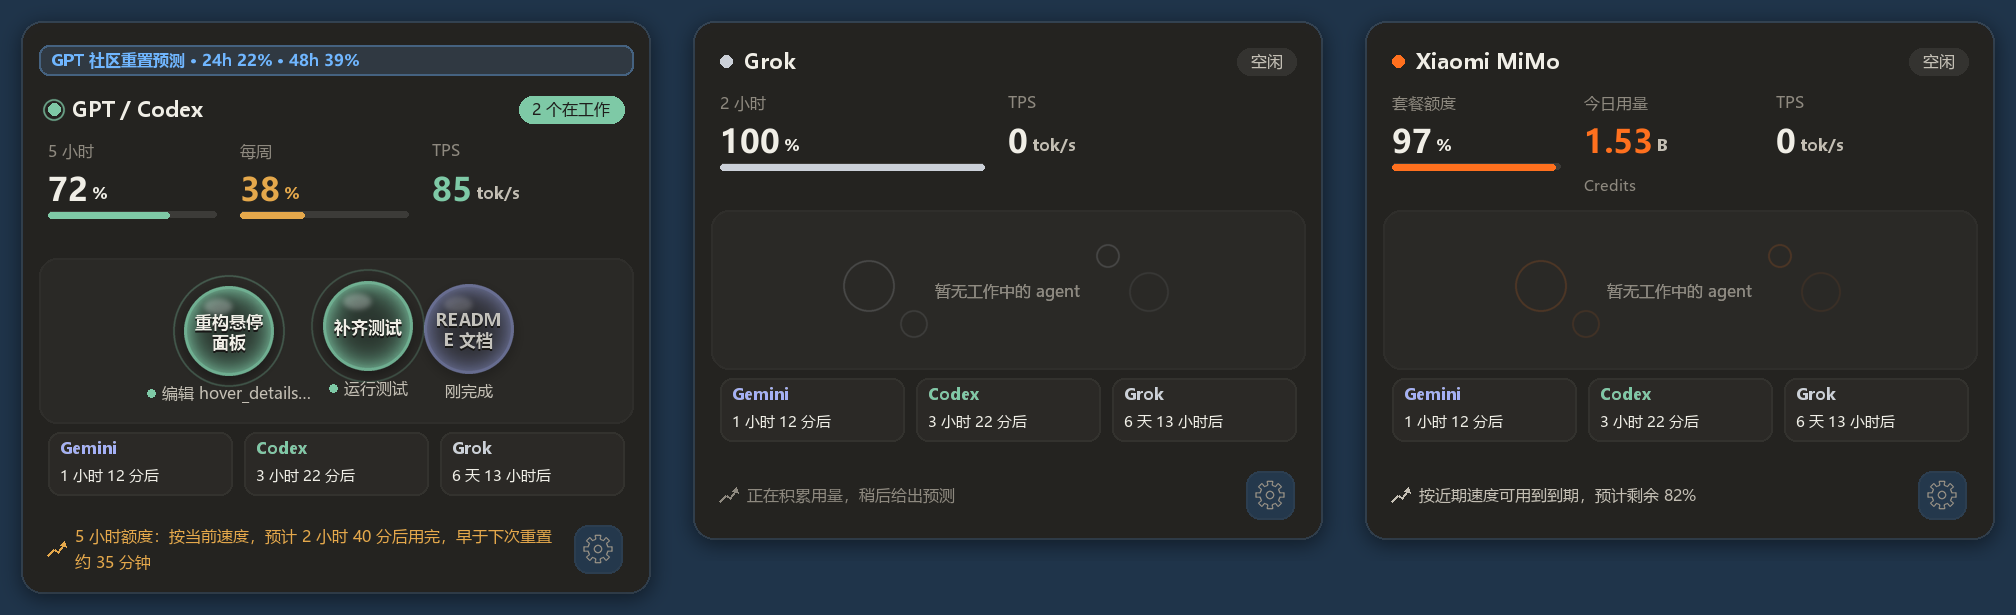
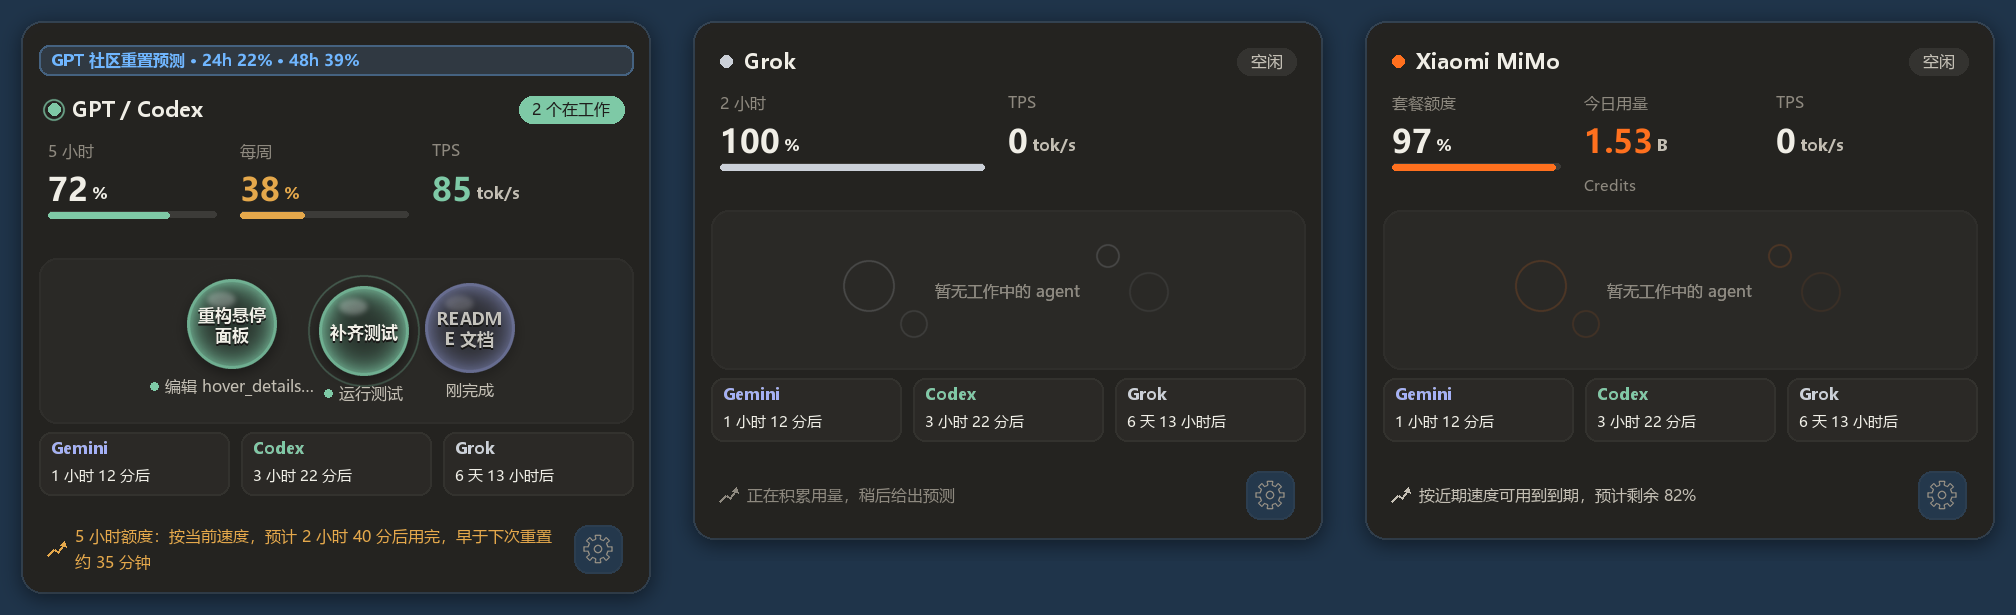
Align reset columns with the task bubble field edges

diff --git a/agent_panel.py b/agent_panel.py
@@ -917,9 +917,10 @@ def background(header: tuple, field_h: int, scale: float) -> Image.Image:
         draw.text((px(WIDTH / 2), px(top + field_h / 2)), "暂无工作中的 agent", font=ui_font(px(11)), fill=MUTED_TEXT, anchor="mm")
     reset_y = top + field_h + 10
     gap = 8
-    column_w = (WIDTH - 2 * PAD - 2 * gap) / 3
+    column_left = PAD - 6   # Same outer edges as the bubble field above.
+    column_w = (WIDTH - 2 * column_left - 2 * gap) / 3
     for index in range(3):
-        x = PAD + index * (column_w + gap)
+        x = column_left + index * (column_w + gap)
         y = reset_y
         draw.rounded_rectangle((px(x), px(y), px(x + column_w), px(y + 42)), radius=px(8),
                                fill=(240, 238, 230, 8), outline=(240, 238, 230, 18), width=max(1, round(s)))
